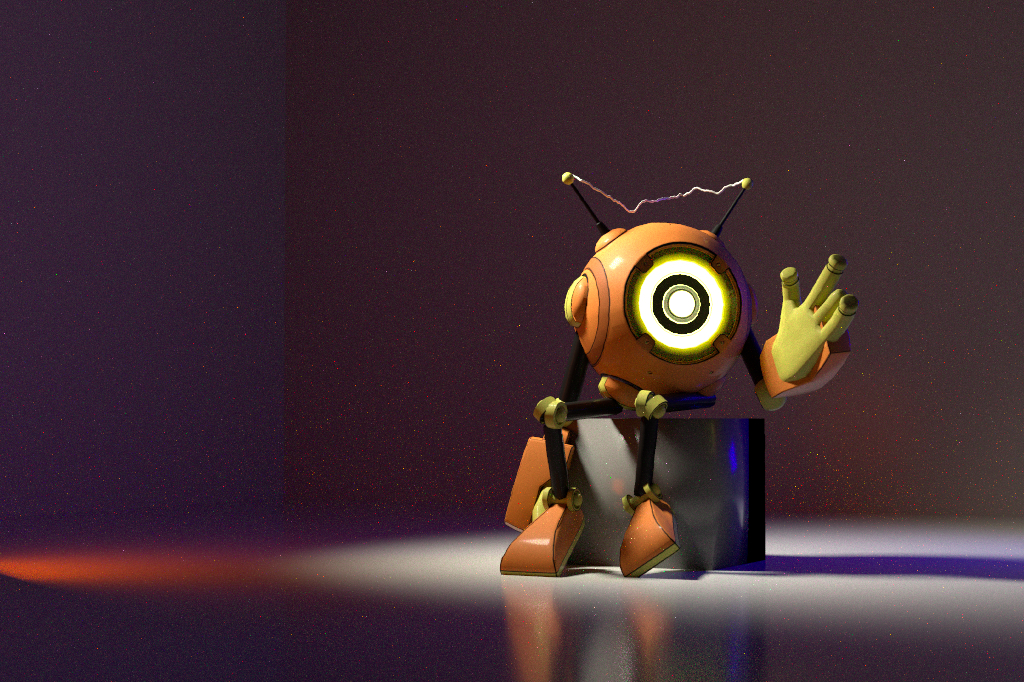
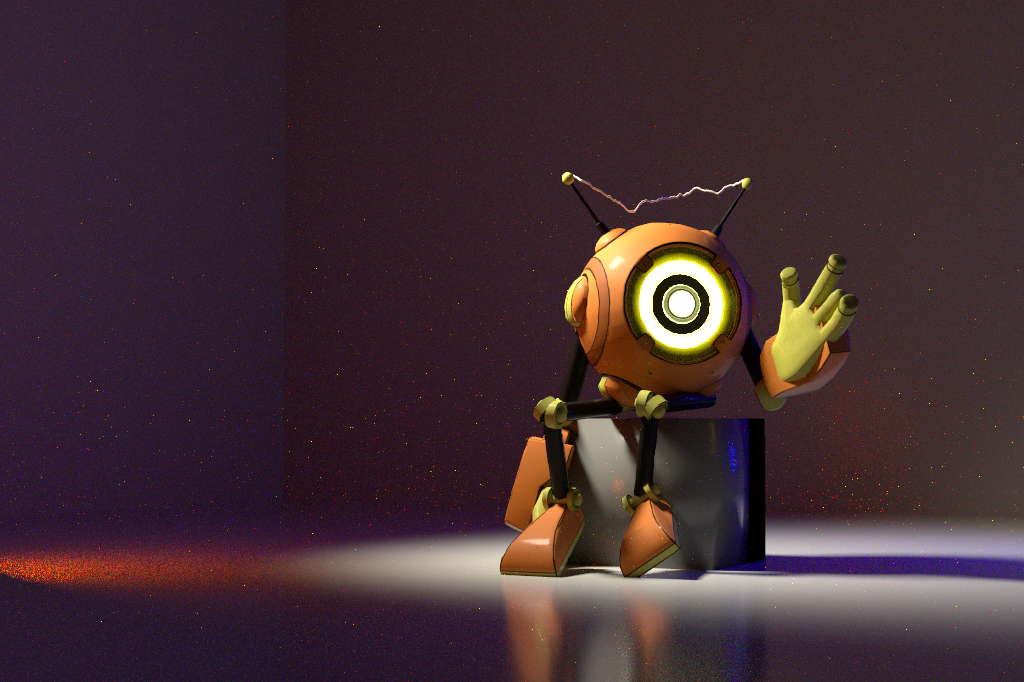
Importance sample analytic lights

diff --git a/src/gpu/vulkan_path_tracer.cpp b/src/gpu/vulkan_path_tracer.cpp
@@ -647,17 +647,112 @@ void sampleDomeLight(GpuLight light, inout uint rng,
                          ivec2(column, row), 0).b, 0.0);
 }
 
-float environmentLightPdf(vec3 direction)
+float lightSelectionWeight(
+    GpuLight light, vec3 position, vec3 normal,
+    float diffuseEnergy, float specularEnergy, float translucentEnergy)
+{
+    float power = max(light.geometry.w, 0.0);
+    if (power <= 0.0) return 0.0;
+    float diffuseResponse = max(diffuseEnergy, 0.0) * light.controls.x;
+    float specularResponse = max(specularEnergy, 0.0) * light.controls.y;
+    float transmissionResponse = max(translucentEnergy, 0.0) * light.controls.x;
+    float minimumWeight = power * 0.01;
+    uint type = light.textureInfo.z;
+    if (type == 0u) {
+        return max(minimumWeight, power *
+            (0.5 * (diffuseResponse + transmissionResponse) +
+             specularResponse));
+    }
+    vec3 direction;
+    float geometryFactor = 1.0;
+    if (type == 5u) {
+        direction = normalize(light.basisZ.xyz);
+    } else {
+        vec3 toLight = light.position.xyz - position;
+        float distanceSquared = max(dot(toLight, toLight), 1e-4);
+        direction = toLight * inversesqrt(distanceSquared);
+        geometryFactor = 1.0 / distanceSquared;
+        if (type == 1u || type == 2u) {
+            vec3 lightNormal = -normalize(light.basisZ.xyz);
+            geometryFactor *= max(dot(lightNormal, -direction), 0.0);
+        } else if (type == 4u) {
+            // The center is on the cylinder axis. Half is the mean projected
+            // side cosine over its circumference.
+            geometryFactor *= 0.5;
+        }
+    }
+    float nDotL = dot(normal, direction);
+    float response = max(nDotL, 0.0) *
+        (diffuseResponse + specularResponse) +
+        max(-nDotL, 0.0) * transmissionResponse;
+    return max(minimumWeight, power * geometryFactor * response);
+}
+
+float totalAnalyticLightWeight(
+    vec3 position, vec3 normal,
+    float diffuseEnergy, float specularEnergy, float translucentEnergy)
+{
+    uint lightCount = (camera.frame.w >> 16u) & 0xffu;
+    float total = 0.0;
+    for (uint index = 0u; index < lightCount; ++index) {
+        total += lightSelectionWeight(
+            lights[index], position, normal,
+            diffuseEnergy, specularEnergy, translucentEnergy);
+    }
+    return total;
+}
+
+void sampleAnalyticLight(
+    vec3 position, vec3 normal,
+    float diffuseEnergy, float specularEnergy, float translucentEnergy,
+    inout uint rng, out uint lightIndex, out float selectionPdf)
+{
+    uint lightCount = (camera.frame.w >> 16u) & 0xffu;
+    float total = totalAnalyticLightWeight(
+        position, normal, diffuseEnergy, specularEnergy, translucentEnergy);
+    if (total <= 0.0) {
+        lightIndex = min(uint(randomFloat(rng) * float(lightCount)),
+                         lightCount - 1u);
+        selectionPdf = 1.0 / float(lightCount);
+        return;
+    }
+    float target = randomFloat(rng) * total;
+    float accumulated = 0.0;
+    lightIndex = lightCount - 1u;
+    for (uint index = 0u; index < lightCount; ++index) {
+        float weight = lightSelectionWeight(
+            lights[index], position, normal,
+            diffuseEnergy, specularEnergy, translucentEnergy);
+        accumulated += weight;
+        if (target <= accumulated) {
+            lightIndex = index;
+            break;
+        }
+    }
+    selectionPdf = lightSelectionWeight(
+        lights[lightIndex], position, normal,
+        diffuseEnergy, specularEnergy, translucentEnergy) / total;
+}
+
+float environmentLightPdf(
+    vec3 position, vec3 normal, vec3 direction,
+    float diffuseEnergy, float specularEnergy, float translucentEnergy)
 {
     uint lightCount = (camera.frame.w >> 16u) & 0xffu;
     if (lightCount == 0u) return 0.0;
+    float total = totalAnalyticLightWeight(
+        position, normal, diffuseEnergy, specularEnergy, translucentEnergy);
+    if (total <= 0.0) return 0.0;
     float pdf = 0.0;
     for (uint index = 0u; index < lightCount; ++index) {
         if (lights[index].textureInfo.z == 0u) {
-            pdf += domeLightPdf(lights[index], direction);
+            float selectionPdf = lightSelectionWeight(
+                lights[index], position, normal,
+                diffuseEnergy, specularEnergy, translucentEnergy) / total;
+            pdf += selectionPdf * domeLightPdf(lights[index], direction);
         }
     }
-    return pdf / float(lightCount);
+    return pdf;
 }
 
 vec4 sampleMaterialTexture(uint textureIndex, vec2 uv, vec4 fallbackValue)
@@ -1119,6 +1214,7 @@ void main()
     bool environmentOnMiss = true;
     bool previousWasDelta = true;
     float previousBsdfPdf = 0.0;
+    float previousEnvironmentLightPdf = 0.0;
     bool insideMedium = false;
     float mediumAbsorption = 0.0;
     float mediumScattering = 0.0;
@@ -1149,7 +1245,7 @@ void main()
         {
             if (environmentOnMiss) {
                 float misWeight = previousWasDelta ? 1.0 : powerHeuristic(
-                    previousBsdfPdf, environmentLightPdf(rayDirection));
+                    previousBsdfPdf, previousEnvironmentLightPdf);
                 radiance += throughput * misWeight * vec3(illuminantSpectrum(
                     environment(rayDirection), wavelength));
             }
@@ -1362,8 +1458,13 @@ void main()
 )glsl" +
 R"glsl(
         if (lightCount > 0u) {
-            uint lightIndex = min(uint(randomFloat(rng) * float(lightCount)),
-                                  lightCount - 1u);
+            float directSpecularEnergy = specularEnergy +
+                luminance(coatContribution) + sheenProbability;
+            uint lightIndex;
+            float lightSelectionPdf;
+            sampleAnalyticLight(
+                hit, normal, diffuseEnergy, directSpecularEnergy,
+                translucentEnergy, rng, lightIndex, lightSelectionPdf);
             GpuLight light = lights[lightIndex];
             vec3 lightDirection = vec3(0.0, 1.0, 0.0);
             vec3 lightRadiance = vec3(0.0);
@@ -1465,7 +1566,10 @@ R"glsl(
                     vec3 spectralVisibility = vec3(reflectanceSpectrum(
                         visibility, wavelength));
                     float misWeight = light.textureInfo.z == 0u
-                        ? powerHeuristic(environmentLightPdf(lightDirection),
+                        ? powerHeuristic(environmentLightPdf(
+                                hit, normal, lightDirection,
+                                diffuseEnergy, directSpecularEnergy,
+                                translucentEnergy),
                             surfaceReflectionPdf(
                                 normal, tangent, viewDirection, lightDirection,
                                 roughness, coatRoughness, sheenProbability,
@@ -1473,8 +1577,8 @@ R"glsl(
                                 translucentProbability))
                         : 1.0;
                     radiance += throughput * direct * spectralLight *
-                        spectralVisibility * inversePdf * float(lightCount) *
-                        misWeight;
+                        spectralVisibility * inversePdf * misWeight /
+                        max(lightSelectionPdf, 1e-8);
                 }
             }
         } else if (!hasMeshLights) {
@@ -1751,6 +1855,13 @@ R"glsl(
                 translucentProbability);
             previousWasDelta = false;
             environmentOnMiss = true;
+            previousEnvironmentLightPdf = lightCount > 0u
+                ? environmentLightPdf(
+                    hit, normal, rayDirection, diffuseEnergy,
+                    specularEnergy + luminance(coatContribution) +
+                        sheenProbability,
+                    translucentEnergy)
+                : 0.0;
         }
         if (bounce >= 2) {
             float survival = clamp(max(throughput.r, max(throughput.g, throughput.b)), 0.1, 0.95);
@@ -2376,7 +2487,7 @@ public:
         }
         GlslCompileOptions options;
         const std::string modeName(ShadingModeName(mode));
-        options.generatorVersion = "hdCodex.pathtracer.spectral.v18." + modeName;
+        options.generatorVersion = "hdCodex.pathtracer.spectral.v19." + modeName;
         options.materialAbi = "hdcodex.pathtracer.materialx-surface.v11." + modeName;
         if (mode == ShadingMode::Modular) {
             options.generateDebugInfo = true;
@@ -2587,10 +2698,32 @@ public:
                 light.type != SceneLightType::Distant && light.normalize) {
                 radianceScale /= std::max(light.area, 1e-8F);
             }
+            const std::array<float, 3> emittedColor{
+                light.color[0] * light.temperatureColor[0],
+                light.color[1] * light.temperatureColor[1],
+                light.color[2] * light.temperatureColor[2]};
+            float emittedLuminance =
+                0.2126F * std::max(emittedColor[0], 0.0F) +
+                0.7152F * std::max(emittedColor[1], 0.0F) +
+                0.0722F * std::max(emittedColor[2], 0.0F);
+            if (!light.texture.empty() &&
+                (light.type == SceneLightType::Dome ||
+                 light.type == SceneLightType::Rect)) {
+                emittedLuminance *= textureAverageLuminance(light.texture);
+            }
+            float emitterMeasure = 1.0F;
+            if (light.type == SceneLightType::Dome) {
+                emitterMeasure = 12.5663706144F;
+            } else if (light.type != SceneLightType::Distant) {
+                emitterMeasure = std::max(light.area, 0.0F);
+            }
+            float selectionPower = std::max(
+                emittedLuminance * std::max(radianceScale, 0.0F) *
+                    emitterMeasure,
+                0.0F);
+            if (!std::isfinite(selectionPower)) selectionPower = 0.0F;
             lights.push_back({
-                {light.color[0] * light.temperatureColor[0],
-                 light.color[1] * light.temperatureColor[1],
-                 light.color[2] * light.temperatureColor[2], radianceScale},
+                {emittedColor[0], emittedColor[1], emittedColor[2], radianceScale},
                 {light.diffuse, light.specular,
                  static_cast<float>(light.type),
                  std::max(light.area, 0.0F)},
@@ -2608,7 +2741,7 @@ public:
                  light.shadowFalloff, light.shadowFalloffGamma},
                 {light.shadowColor[0], light.shadowColor[1],
                  light.shadowColor[2], 0.0F},
-                {light.radius, light.length, light.angle, 0.0F},
+                {light.radius, light.length, light.angle, selectionPower},
                 {textureIndex(light.texture),
                  static_cast<std::uint32_t>(light.textureFormat),
                  static_cast<std::uint32_t>(light.type),

diff --git a/tests/path_tracer_tests.cpp b/tests/path_tracer_tests.cpp
@@ -213,6 +213,24 @@ try {
                 light.id);
         }
     }
+
+    scene->lights.clear();
+    for (std::size_t index = 0; index < 63U; ++index) {
+        scene->lights.push_back({
+            .id = "/black" + std::to_string(index),
+            .type = hdcodex::SceneLightType::Dome,
+            .intensity = 0.0F,
+        });
+    }
+    scene->lights.push_back(authoredLights[1]);
+    tracer.SetScene(scene);
+    const auto selectedLightPixels = renderSamples(1U);
+    const float selectedLightCenterLuma = selectedLightPixels[center] +
+        selectedLightPixels[center + 1U] + selectedLightPixels[center + 2U];
+    Check(std::isfinite(selectedLightCenterLuma) &&
+              selectedLightCenterLuma > 0.01F,
+          "power-weighted analytic-light selection missed the only emitting light");
+
     scene->lights = authoredLights;
     tracer.SetScene(scene);
 

diff --git a/docs/shading_development.md b/docs/shading_development.md
@@ -216,7 +216,7 @@ generated architecture.
 | Volume terminals | Unsupported; only one homogeneous interior transmission medium is tracked |
 | Caustics | Incidental and very inefficient for environment paths; no robust caustics from analytic lights |
 | Emission | Visible surface EDFs plus power-weighted emissive-triangle next-event sampling and matching BSDF-hit MIS; no volume emission |
-| Lights | Hydra dome, rectangle, disk, sphere, cylinder, and distant lights plus emissive mesh triangles; power-heuristic MIS covers authored domes and mesh EDFs, while automatic/lat-long domes and mesh emitters use power distributions; no portal lights or light linking |
+| Lights | Hydra dome, rectangle, disk, sphere, cylinder, and distant lights plus emissive mesh triangles; analytic lights use shading-point/material-aware power selection, power-heuristic MIS covers authored domes and mesh EDFs, and automatic/lat-long domes and mesh emitters use power distributions; no portal lights or light linking |
 | Geometry shaders | Displacement unsupported; subdivision uses coarse topology |
 | Hair | Hair BSDF and curve geometry unsupported |
 | Textures | Fixed repeat addressing, base mip only, no ray differentials, limited UDIM range, and role-based rather than graph-authored color handling |
@@ -361,7 +361,8 @@ labeled as a lighting preview rather than a path-transport reference.
   normalization, shaping, and shadow controls.
 - Implemented: area/luminance-power sampling of emissive triangles with exact
   texture/opacity evaluation, visibility, solid-angle PDFs, and BSDF-hit MIS.
-- Shading-point-aware power sampling across analytic lights.
+- Implemented: shading-point- and material-aware power sampling across
+  analytic lights, including exact selection-mixture PDFs for dome MIS.
 - Extend BSDF/light MIS to every non-delta analytic light representation.
 - Complete portal/geometry lights, IES shaping, visibility categories, and
   light linking.

diff --git a/README.md b/README.md
@@ -100,6 +100,8 @@ asset-input and display-output format, not the path-throughput representation.
   BSDF continuation paths. Lat-long and automatic-layout HDR domes use
   luminance/solid-angle texture importance sampling; other projections retain
   an unbiased uniform-direction fallback.
+- Shading-point- and material-aware power selection across authored analytic
+  lights, with the same selection mixture used by dome continuation-path MIS.
 - Rectangle-light transforms, textured emission, area normalization, shaping,
   diffuse/specular multipliers, and colored distance-limited shadows.
 - Geometry-aware disk, sphere, and cylinder area sampling plus angular-diameter
